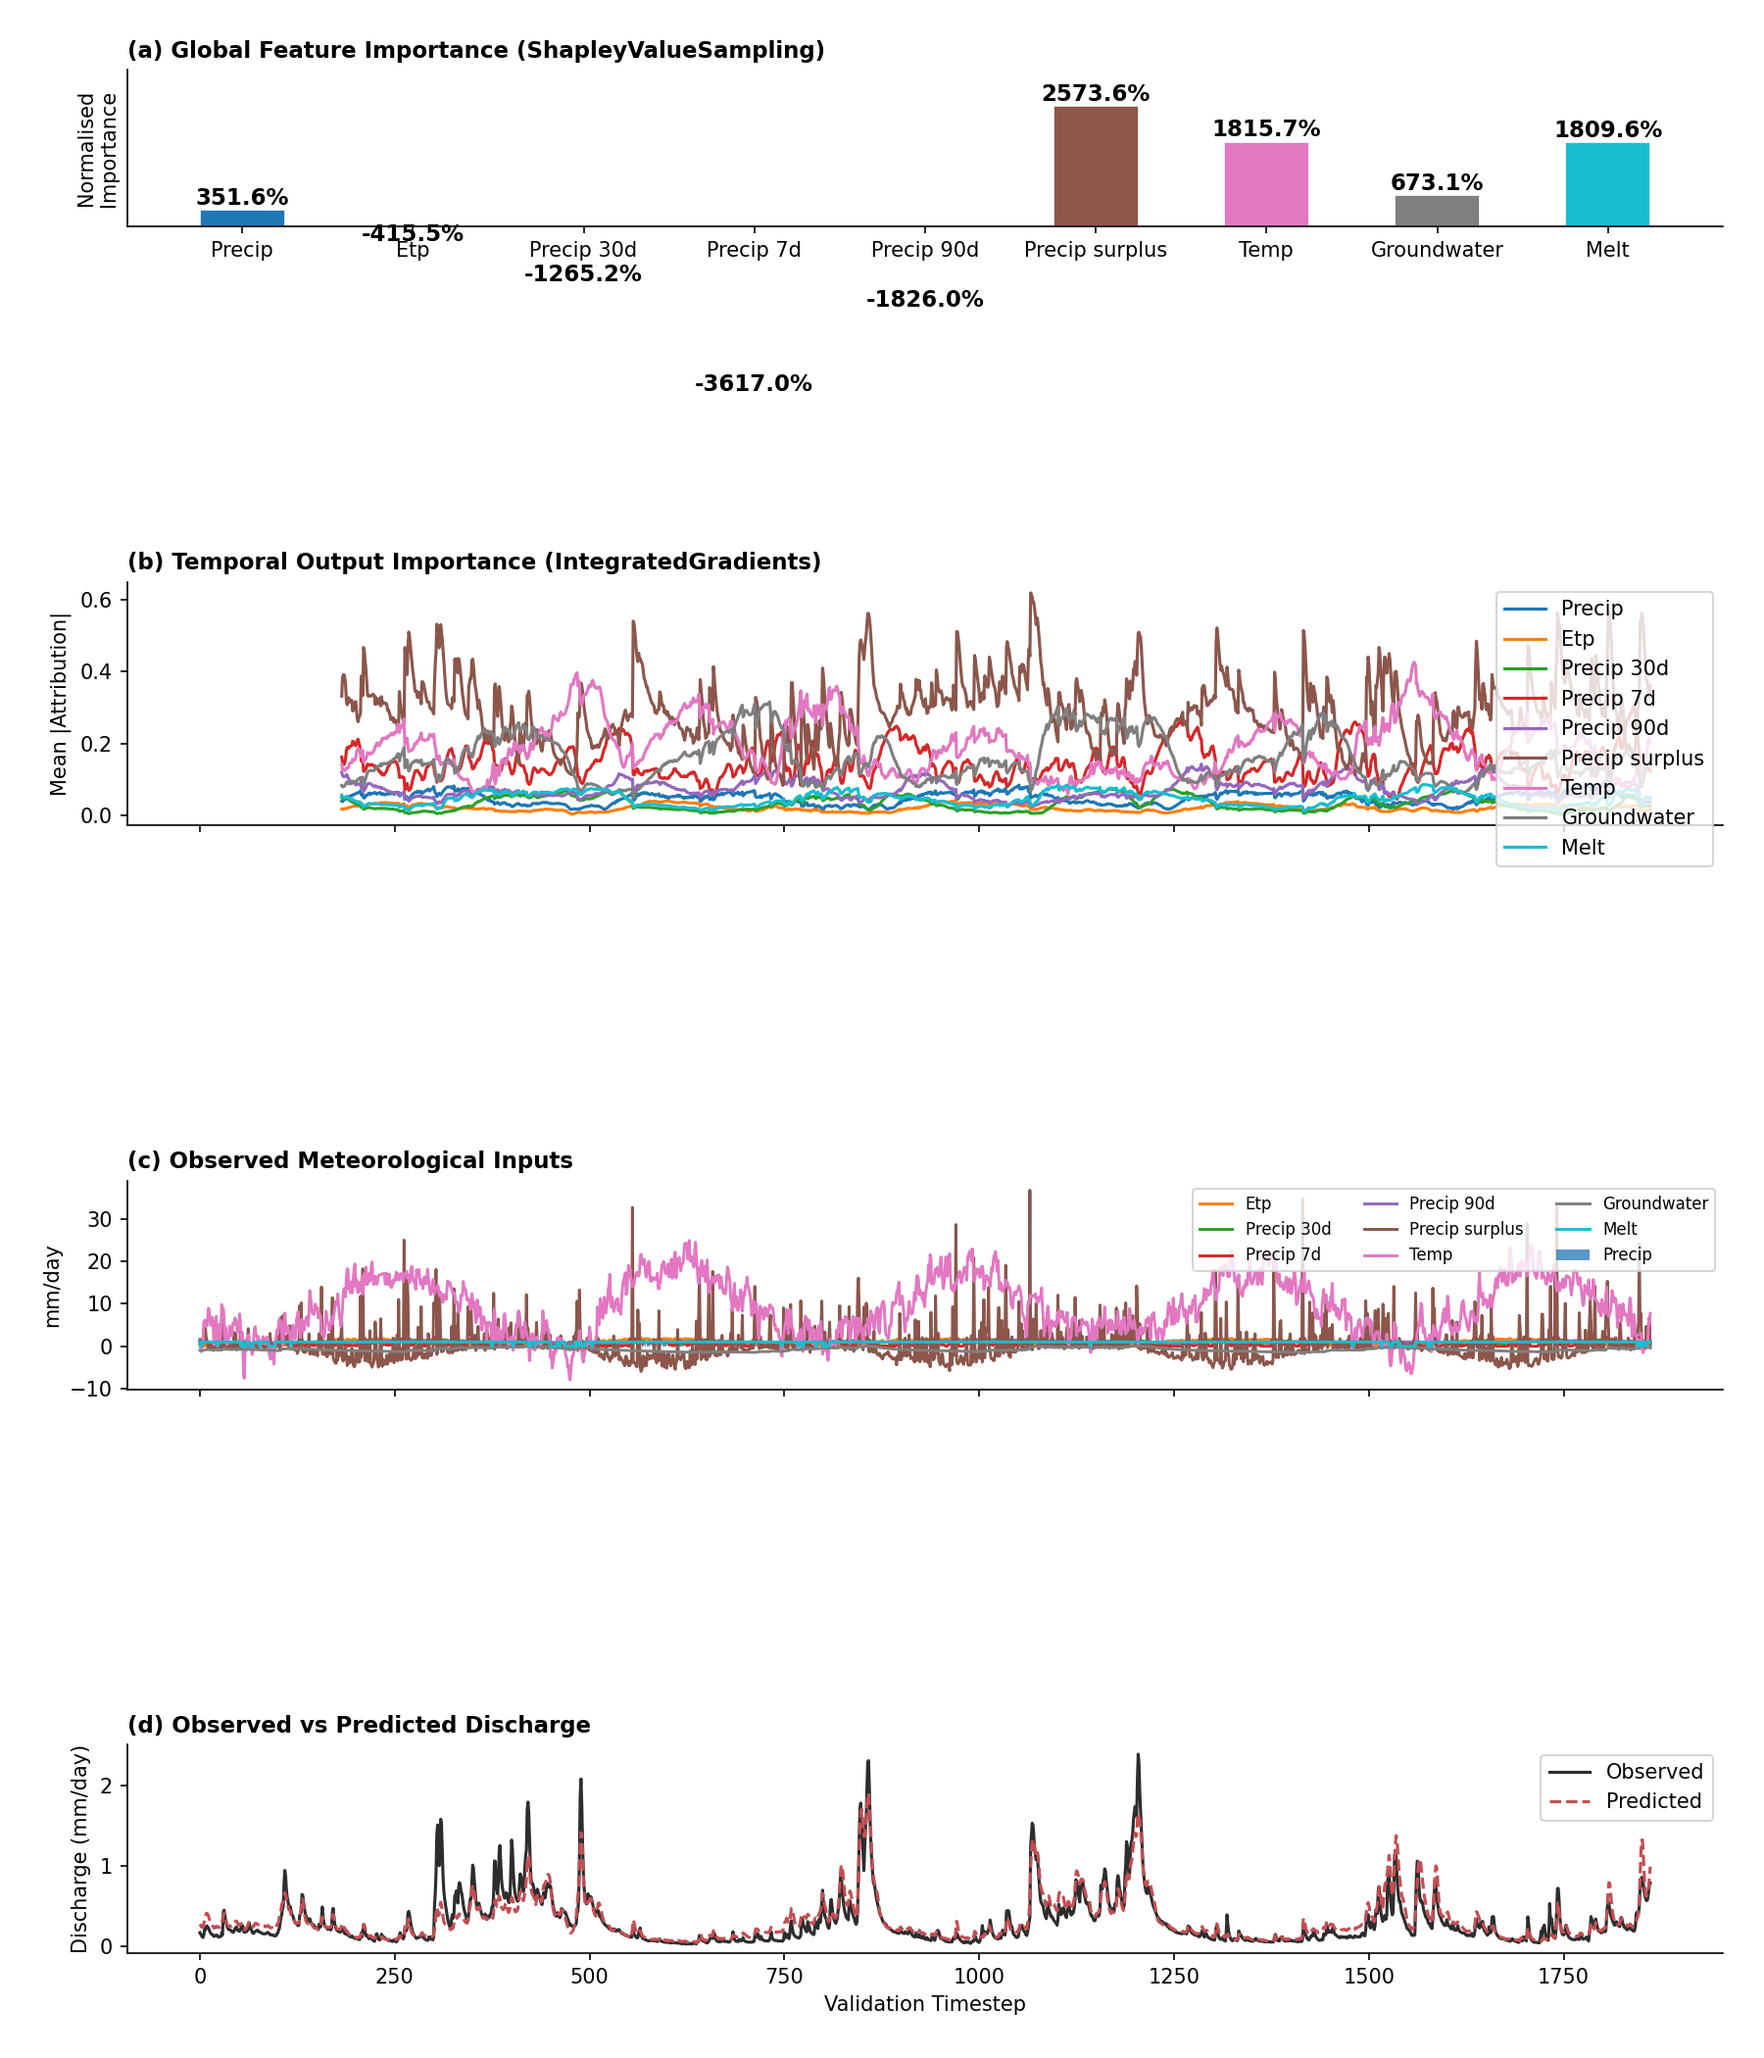
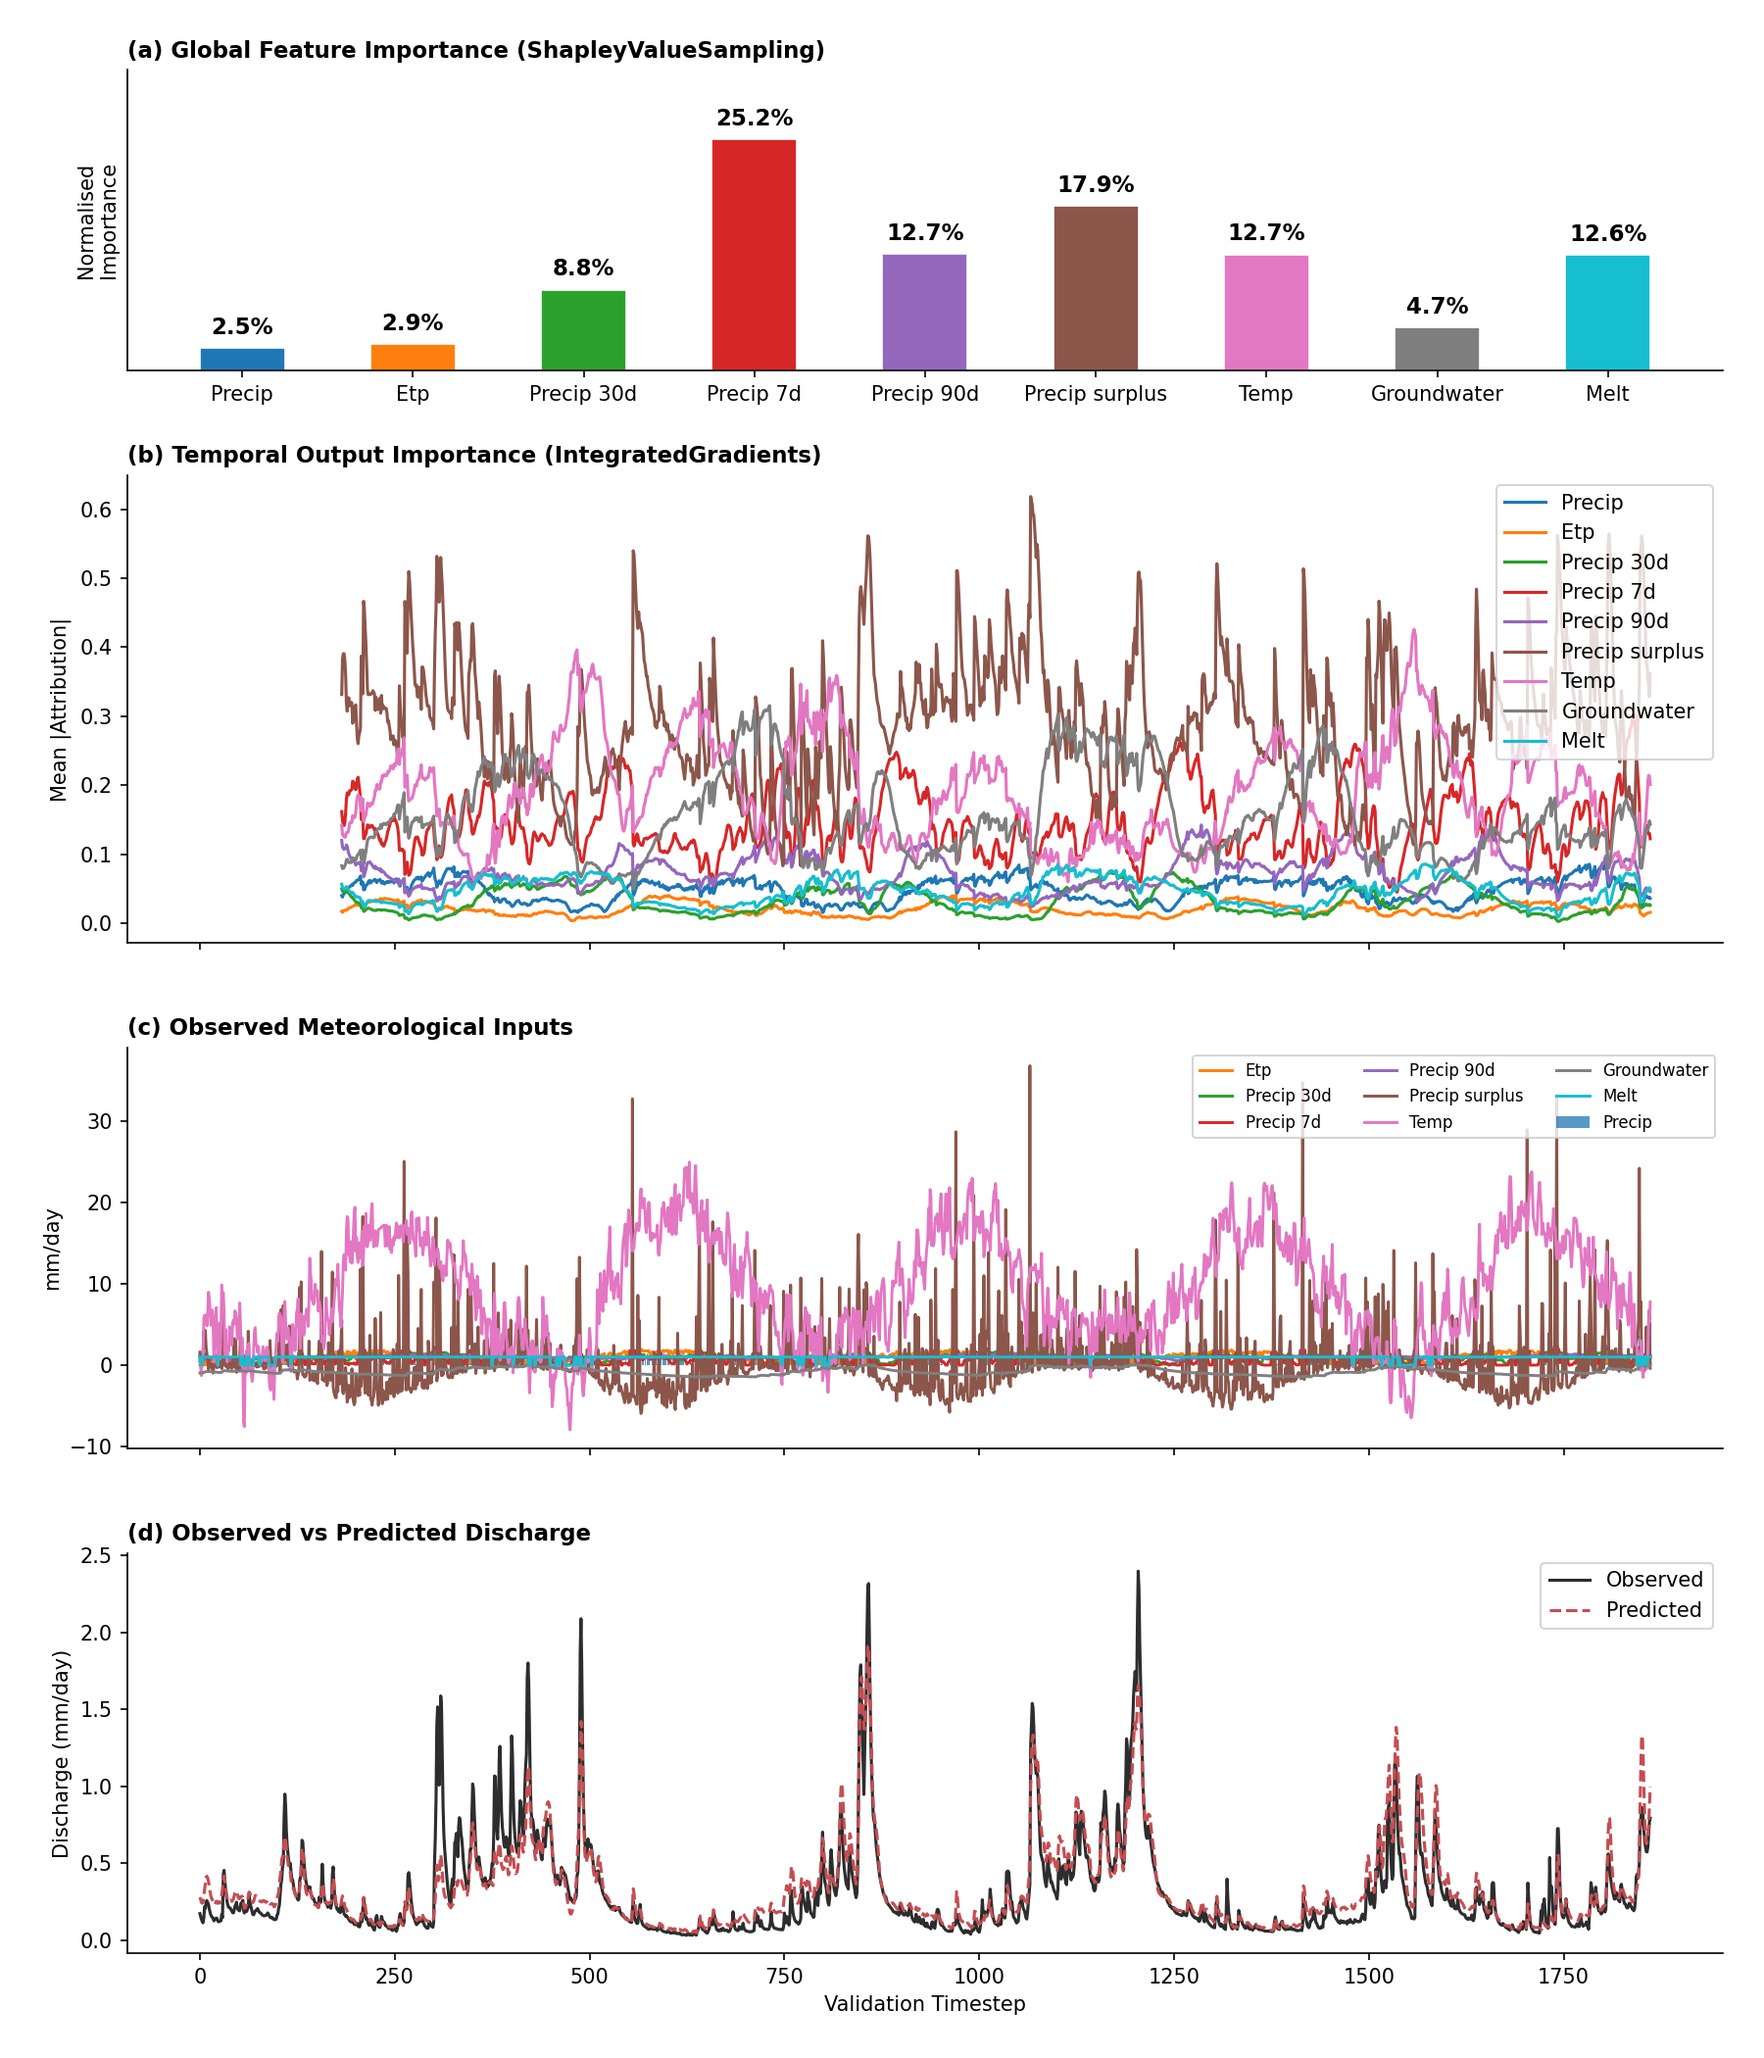
LOCO training for multicatchment model is updated and ready to run.

diff --git a/Multi-Catchment/B_lstm_forecaster_random_windows_LOCO.py b/Multi-Catchment/B_lstm_forecaster_random_windows_LOCO.py
@@ -3,6 +3,8 @@ import torch.optim as optim
 import numpy as np
 import matplotlib.pyplot as plt
 import os
+import pandas as pd
+
 
 from B_lstm_forecaster import load_catchment, scale_series, unscale_series, mse, nse, feature_cols, catchments, datafolder
 from model import LSTMModel
@@ -52,14 +54,15 @@ def run_fold(test_catchment_name):
     #Compute input and label scales from the 5 training catchments ONLY 
     all_inputs_train = torch.cat([c['inputs_train'] for c in train_catchments], dim=1)
     all_labels_train = torch.cat([c['labels_train'] for c in train_catchments], dim=1)
-    _, inputscales = scale_series(full_inputs)
-    _, labelscales = scale_series(full_labels)
+    _, inputscales = scale_series(all_inputs_train)
+    _, labelscales = scale_series(all_labels_train)
 
     #Apply the scale to the 5 training catchments 
-    c['inputs_train'], _ = scale_series(c['inputs_train'], inputscales)
-    c['inputs_val'], _ = scale_series(c['inputs_val'], inputscales)
-    c['labels_train'], _ = scale_series(c['labels_train'], labelscales)
-    c['labels_val'], _ = scale_series(c['labels_val'], labelscales)
+    for c in train_catchments:
+        c['inputs_train'], _ = scale_series(c['inputs_train'], inputscales)
+        c['inputs_val'], _ = scale_series(c['inputs_val'], inputscales)
+        c['labels_train'], _ = scale_series(c['labels_train'], labelscales)
+        c['labels_val'], _ = scale_series(c['labels_val'], labelscales)
 
     #Apply this same training scale to the held-out test catchment 
     test_inputs_scaled, _ = scale_series(test_inputs, inputscales)
@@ -74,7 +77,7 @@ def run_fold(test_catchment_name):
     test_static_scaled = (test_catchment['static'] - static_mean) / static_std
 
     # Pre-stack all static attributes as a (n_catchments, n_static) tensor for batching
-    all_static_scaled = torch.stack([c['static_scaled'] for c in catchment_data])
+    all_static_scaled = torch.stack([c['static_scaled'] for c in train_catchments])
 
     #################################################################
     # Model + optimizer + scheduler
@@ -97,7 +100,7 @@ def run_fold(test_catchment_name):
         # Sample one random window from each catchment
         batch_inputs = []
         batch_labels = []
-        for c in catchment_data:
+        for c in train_catchments:
             T = c['inputs_train'].shape[1]
             start = torch.randint(0, T - window_total, (1,)).item()
             batch_inputs.append(c['inputs_train'][:, start:start+window_total, :])
@@ -122,22 +125,35 @@ def run_fold(test_catchment_name):
         model.eval()
         total_val_loss = 0.0
         with torch.no_grad():
-            for c in catchment_data:
+            for c in train_catchments:
                 inputs_trainval = torch.cat([c['inputs_train'], c['inputs_val']], dim=1)
                 pred_trainval = model(inputs_trainval, c['static_scaled'].unsqueeze(0))
                 pred_val = pred_trainval[:, c['inputs_train'].shape[1]:]
                 total_val_loss += mse(pred_val, c['labels_val']).item()
 
-        avg_val_loss = total_val_loss / len(catchment_data)
+        avg_val_loss = total_val_loss / len(train_catchments)
         history['val_loss'].append(avg_val_loss)
 
         if avg_val_loss < best_val_loss:
             best_val_loss = avg_val_loss
-            torch.save(model.state_dict(), 'weights_random_windows.csv')
+            torch.save(model.state_dict(), f'weights_LOCO_{test_catchment_name}.csv')
 
         if epoch % 100 == 0:
-            print(f'Epoch {epoch}: train={loss.item():.4f}, val={avg_val_loss:.4f}')
+            print(f'[{test_catchment_name}] Epoch {epoch}: train={loss.item():.4f}, val={avg_val_loss:.4f}')
 
+    #################################################################
+    # Load best weights for this fold and evaluate on held-out test catchment
+    model.load_state_dict(torch.load(f'weights_LOCO_{test_catchment_name}.csv'))
+    model.eval()
+    with torch.no_grad():
+        pred_test = model(test_inputs_scaled, test_static_scaled.unsqueeze(0))
+
+    pred_phys = unscale_series(pred_test[0, window_warmup:], labelscales).numpy()
+    obs_phys  = unscale_series(test_labels_scaled[0, window_warmup:], labelscales).numpy()
+    test_nse  = nse(obs_phys, pred_phys)
+    print(f'[{test_catchment_name}] Test NSE: {test_nse:.3f}')
+    
+    
     #################################################################
     # Plot training history
     fig, axes = plt.subplots(nrows=2, sharex=True)
@@ -149,5 +165,20 @@ def run_fold(test_catchment_name):
     axes[1].set_ylabel('Learning Rate')
     axes[1].set_xlabel('Epoch')
     plt.tight_layout()
-    fig.savefig(os.path.join(figures_dir, 'lstm_training_history_random_windows.png'), dpi=150)
-    plt.show()
+    fig.savefig(os.path.join(figures_dir, f'lstm_training_history_LOCO_{test_catchment_name}.png'), dpi=150)
+
+    plt.close(fig)
+
+    return test_nse 
+
+if __name__ == '__main__':
+    fold_order = ['Group2'] + [c for c in catchments if c != 'Group2']
+    results = {}
+    for test_name in fold_order:
+        print(f'\n=== LOCO fold: test = {test_name} ===')
+        results[test_name] = run_fold(test_name)
+
+    df = pd.DataFrame({'catchment': list(results.keys()),
+                       'test_nse':  list(results.values())})
+    print('\n' + df.to_string(index=False))
+    df.to_csv(os.path.join(figures_dir, 'loco_cv_results.csv'), index=False)
